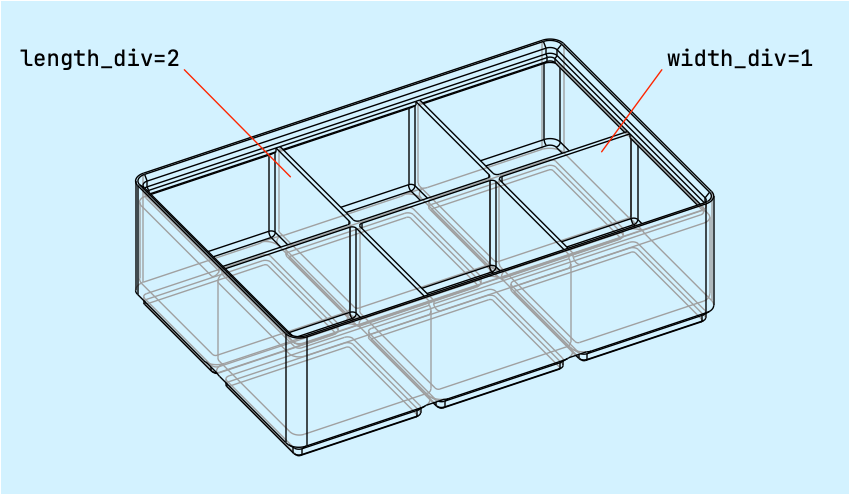
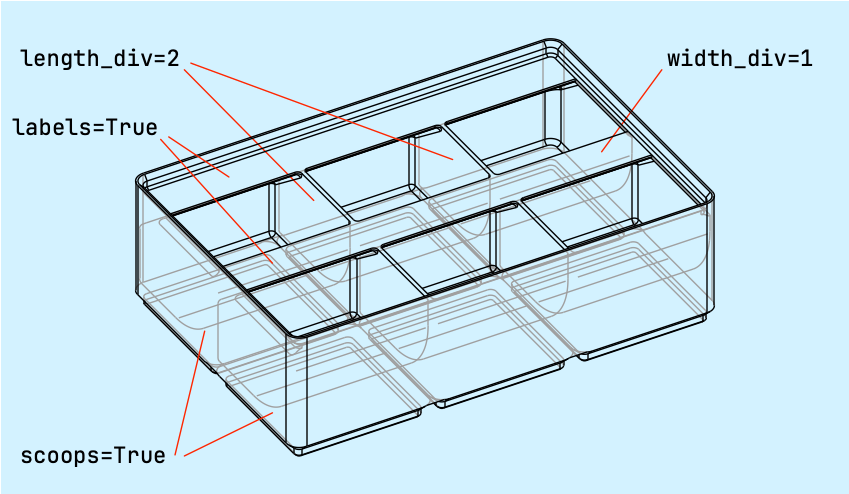
Updated README

diff --git a/README.md b/README.md
@@ -51,8 +51,8 @@ An example of the package can be seen below:
     box = GridfinityBox(3, 2, 5, holes=True, no_lip=False, scoops=True, labels=True)
     fn = box.filename() + ".stl"
     exporters.export(r, fn, tolerance=1e-2, angularTolerance=0.15)
-    # Output a STL file of box named:
-    #   gf_box_3x2x5_holes_scoops_labels.svg
+    # Output a STL file of box:
+    #   gf_box_3x2x5_holes_scoops_labels.stl
 ```
 
 ## Baseplates (`GridfinityBaseplate`)
@@ -63,7 +63,10 @@ Gridfinity baseplates can be made with the `GridfinityBaseplate` class.  The bas
    # Create 4 x 3 baseplate
    baseplate = GridfinityBaseplate(4, 3)
    baseplate.save_step_file()
+   # gf_baseplate_4x3.step
 ```
+<img src=./images/baseplate4x3.png width=400>
+
 
 ## Boxes (`GridfinityBox`)
 
@@ -114,9 +117,9 @@ Gridfinity boxes with many optional features can be created with the `Gridfinity
 
 ```python
     # add dividing walls
-    box = GridfinityBox(3, 2, 5, length_div=2, width_div=1)
+    box = GridfinityBox(3, 2, 5, length_div=2, width_div=1, scoops=True, labels=True)
     box.save_step_file()
-    # gf_box_3x2x5_div2x1.step
+    # gf_box_3x2x5_div2x1_scoops_labels.step
 ```
 <img src=./images/box_div.png width=400>
 
@@ -150,7 +153,9 @@ Gridfinity boxes with many optional features can be created with the `Gridfinity
 
 ## Drawer Spacer (`GridfinityDrawerSpacer`)
 
-The `GridfinityDrawerSpacer` class can be used to make spacer components to fit a drawer with any arbitrary dimensions.  With a specified width and depth of the drawer, the best fit of integer gridfinity baseplate units is computed.  Rarely, integer multiples of 42 mm gridfinity baseplates fit perfectly inside a drawer; therefore, spacers are required to secure the baseplate snuggly inside the drawer.  Spacers consist of 4x identical corner sections, 2x spacers for the left and right sides and 2x spacers for the front and back edges.
+The `GridfinityDrawerSpacer` class can be used to make spacer components to fit a drawer with any arbitrary dimensions.  Initialize with specified width and depth of the drawer (in mm) and the best fit of integer gridfinity baseplate units is computed.  Rarely, integer multiples of 42 mm gridfinity baseplates fit perfectly inside a drawer; therefore, spacers are required to secure the baseplate snuggly inside the drawer.  Spacers consist of 4x identical corner sections, 2x spacers for the left and right sides and 2x spacers for the front and back edges.
+
+If the computed spacer width falls below a configurable threshold (default 4 mm), then no spacer component is made in that dimension.  The spacer components are made by default with interlocking "jigsaw" type features to assist with assembly and to secure the spacers within the drawer.  Also, alignment arrows (default but optional) are placed on the components to indicate the installation orientation in the direction of the drawer movement.
 
 ```python
     # make drawer spacers for Craftsman tool chest drawer 23" wide x 19" deep
@@ -183,6 +188,21 @@ Normally, the `render_half_set()` method used to render half of the components c
   min_margin=4             # minimum size to make a spacer, nothing is made for smaller gaps
   tolerance=GR_TOL         # overall tolerance for spacer components, default=0.5 mm
 ```
+### Example with IKEA ALEX narrow drawer
+
+An example use case to make a set of spacer components for a typical IKEA narrow ALEX drawer is as follows:
+
+```python
+  spacers = GridfinityDrawerSpacer(INCHES(11.5), INCHES(20.5), verbose=True)
+  obj = spacers.render_full_set(include_baseplate=True)
+  cq.exporters.export(obj, "ikea_alex_full_set.step")
+  # make a half set for 3D printing
+  obj = spacers.render_half_set()
+  cq.exporters.export(obj, "ikea_alex_half_set.stl", tolerance=1e-2, angularTolerance=0.15)
+```
+
+<img src=./images/alexdrawer.png width=400>
+
 
 ## `GridfinityObject`
 
